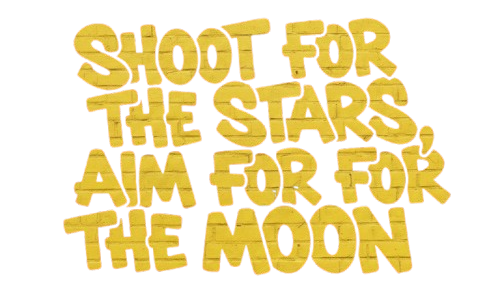
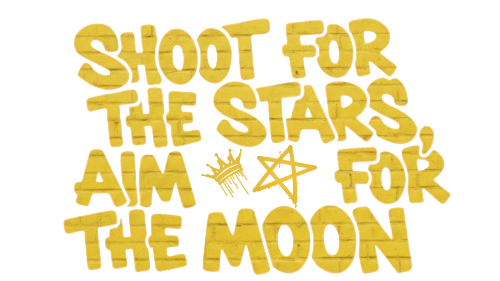
add background images and copyright component; enhance vinyls filtering and layout

diff --git a/src/pages/DetailPage.jsx b/src/pages/DetailPage.jsx
@@ -1,6 +1,8 @@
 import axios from "axios"
 import { useState, useEffect } from "react"
 import { useParams } from "react-router-dom"
+import { Link } from "react-router-dom"
+
 export default function DetailPage() {
 
     const [currentVinyl, setCurrentVinyl] = useState(null)
@@ -20,18 +22,24 @@ export default function DetailPage() {
         <>
             <div className="bg-lightyellow schizzi">
                 <div className="container">
+                    <div className="container pt-5 mb-3 text-center">
+                        <Link to="/" className="btn btn-lg bg-blue text-yellow fw-bold w-25">
+                            <i className="bi bi-arrow-left me-2"></i> {/* Icona opzionale */}
+                            Torna alla Home
+                        </Link>
+                    </div>
                     <div className="row">
                         {!currentVinyl ? (
                             <h1>stellina</h1>
                         ) : (
                             <>
-                                <div className="col-7 p-5">
+                                <div className="col-12 col-md-6 p-5">
                                     <img className="p-5 card-img-top" src={`${currentVinyl.img_url}`} alt="Title" />
                                 </div>
-                                <div className="col-5 p-5">
+                                <div className="col-12 col-md-6 p-5">
                                     <div className=" border-0 ">
-                                        <div className=" ps-5">
-                                            <h1 className=" fw-bold text-center text-red pb-4 mt-5">{`${currentVinyl.name}`}</h1>
+                                        <div className=" ps-5 pt-5">
+                                            <h1 className=" fw-bold text-red pb-4 mt-5">{`${currentVinyl.name}`}</h1>
                                             <p className="fw-bold fs-3 text-blue mt-2">Artist Name:
                                                 <span className="text-yellow ms-2 ">
                                                     {`${currentVinyl.artist_name}`}
@@ -73,6 +81,8 @@ export default function DetailPage() {
                                                 )}
                                             </p>
 
+                                            <Link to="/" className="btn btn-lg bg-yellow fw-bold w-100 mt-3">Add to Cart</Link>
+
                                         </div>
                                     </div>
 
@@ -82,6 +92,10 @@ export default function DetailPage() {
                         )}
 
                     </div>
+
+
+
+
                 </div>
             </div >
         </>

diff --git a/src/pages/VinylsPage.jsx b/src/pages/VinylsPage.jsx
@@ -8,7 +8,9 @@ export default function VinylsPage() {
     useEffect(() => {
         axios.get('http://localhost:3000/api/products')
             .then(response => {
-                setVinyls(response.data)
+                const filteredData = response.data.filter(item => item.category === "vinyl")
+                setVinyls(filteredData)
+
             })
             .catch(error => {
                 console.log("Error loading vinyls:", error)
@@ -16,16 +18,16 @@ export default function VinylsPage() {
     }, [])
 
     return (
-        <div className="bg-lightyellow">
+        <div className="bg-lightyellow schizzi">
             <div className="container py-5">
                 <h1 className="fw-bold text-blue">VINYL CATALOG</h1>
 
                 <div className="row">
                     {vinyls.map(vinyl => (
-                        <div className="col-12 col-sm-6 col-md-4" key={vinyl.id}>
+                        <div className="col-12 col-md-6 col-xl-4" key={vinyl.id}>
                             <div className="vinyl-box-wrapper">
 
-                                <div className="vinyl-box">
+                                <div className="vinyl-box ">
                                     <Link
                                         to={`/${vinyl.slug}`}>
                                         <img
@@ -41,8 +43,11 @@ export default function VinylsPage() {
                                         />
 
                                         <div className="vinyl-cover">
-                                            <p className="vinyl-title mb-0">
-                                                {vinyl.name}
+                                            <p className="vinyl-title fs-5 fw-bold text-light mb-0">
+                                                {vinyl.artist_name}
+                                            </p>
+                                            <p className="vinyl-title fs-2 fw-bold text-light mb-0">
+                                                {vinyl.name.toUpperCase()}
                                             </p>
                                         </div>
                                     </Link>

diff --git a/src/App.css b/src/App.css
@@ -73,6 +73,8 @@ a {
     width: 100%;
 }
 
+
+
 /* JUMBOTRON */
 
 .jumbo {
@@ -92,11 +94,24 @@ a {
     rotate: -5deg;
 }
 
+/* CARD */
+
+.card {
+    transition: all 0.35s ease-out;
+}
+
+.card:hover {
+    scale: 1.04;
+}
+
+
+
 /* VINYLS */
 
 .vinyl-box-wrapper {
     text-align: center;
     margin-top: 4rem;
+
 }
 
 .vinyl-box {
@@ -104,6 +119,14 @@ a {
     width: min(300px, 80vw);
     aspect-ratio: 1 / 1;
     cursor: pointer;
+    background-image: url(../bg-box.png);
+    background-position: left;
+    transition: all 0.5s ease;
+    box-shadow: 6px 12px rgba(50, 25, 0, 0.4);
+
+    &:hover {
+        box-shadow: 10px 17px rgba(50, 25, 0, 0.4);
+    }
 }
 
 /* DISK */
@@ -123,6 +146,7 @@ a {
     border-radius: 50%;
     transition: transform 0.5s ease, margin-left 0.4s ease;
     margin-left: 0;
+
 }
 
 .vinyl-disc-top {
@@ -141,13 +165,21 @@ a {
     display: flex;
     align-items: center;
     justify-content: center;
+    flex-direction: column;
     font-weight: bold;
     box-shadow: 0 2px 8px #272838;
     font-size: clamp(0.7rem, 2vw, 1rem);
     z-index: 4;
+    background-image: url(../bg-box.png);
+    background-position: left;
 }
 
 /*VINYL BOX HOVER */
+
+.vinyl-box:hover {
+    scale: 1.03;
+}
+
 .vinyl-box:hover .vinyl-disc {
     transform: translate(-50%, -85%);
 
@@ -155,7 +187,7 @@ a {
 
 .vinyl-box:hover .vinyl-disc-bottom {
     margin-left: 28%;
-    transition-delay: 0.5s;
+    transition-delay: 0.2s;
 }
 
 /* CART */

diff --git a/src/components/Copyright.jsx b/src/components/Copyright.jsx
@@ -1,0 +1,14 @@
+export default function Copyright() {
+    return (
+        <>
+
+            <div className="bg-blue text-yellow fw-bold text-center py-2 mt-auto">
+                <div className="container">
+                    <small className="mb-0 opacity-75">
+                        © {new Date().getFullYear()} StarDisk. Tutti i diritti riservati.
+                    </small>
+                </div>
+            </div>
+        </>
+    )
+}

diff --git a/src/components/Footer.jsx b/src/components/Footer.jsx
@@ -1,4 +1,5 @@
 import { Link } from "react-router-dom"
+import Copyright from "./copyright"
 export default function Footer() {
     return (
         <>
@@ -37,6 +38,7 @@ export default function Footer() {
                         </div>
                     </div>
                 </div>
+                <Copyright />
             </footer>
         </>
     )
